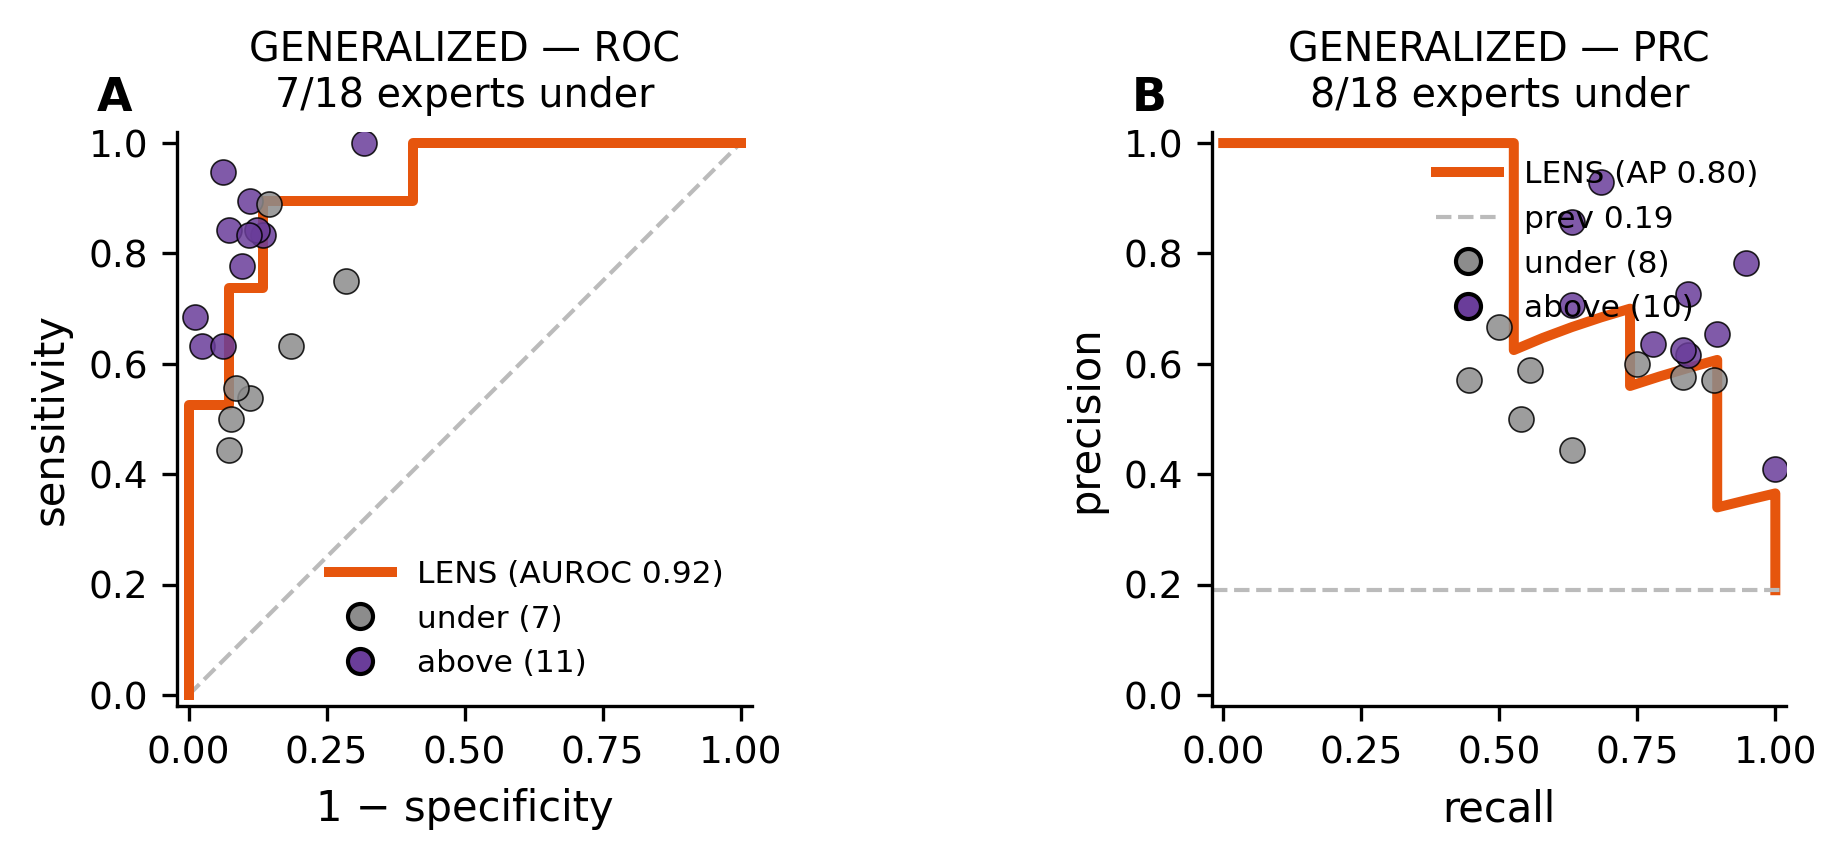
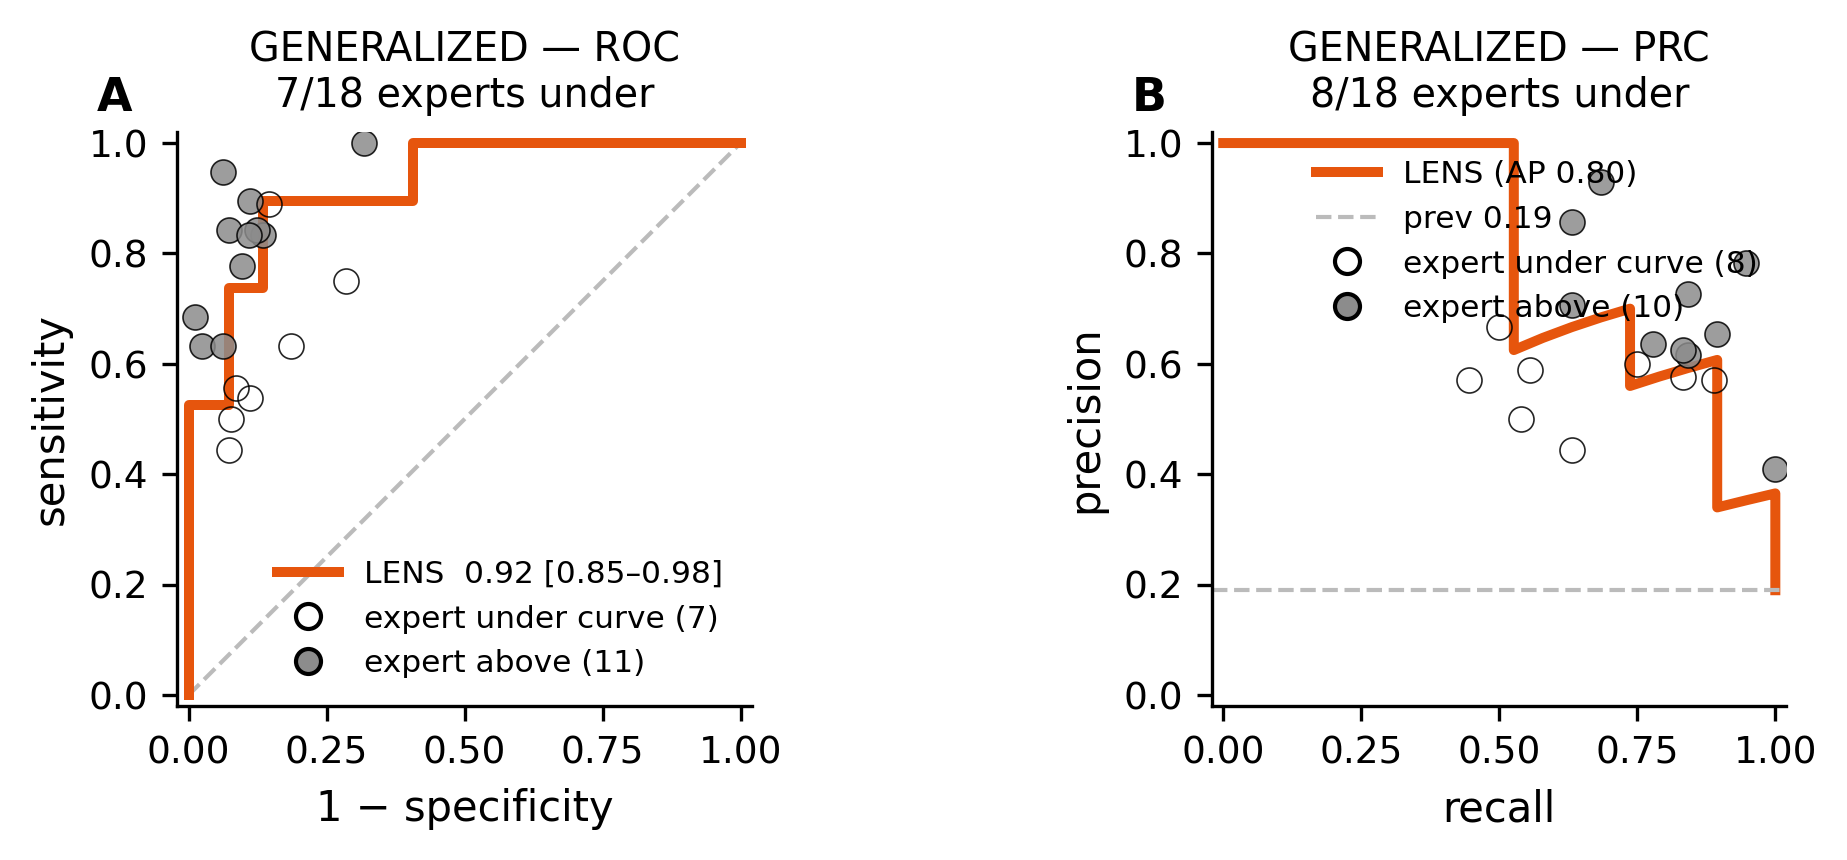
Every figure now prints at 300 DPI — the file said 300, the page said 209
The DPI trap, and the exact twin of the type-size one a few commits ago. A figure saved at
300 dpi carries "300 dpi" in its metadata, and every checker reads that back and passes
it. But the journal scales the figure to fill the column, and scaling UP spreads the same
pixels over more paper. At the page scales this set uses (1.13-1.44) every one of the 16
figures was landing between 209 and 266 DPI on the page while claiming 300 — below
Clinical Neurophysiology's floor, on every figure, undetected through four review rounds.

Worse, my own page-fit guard was pushing them there: it optimised type size upward, which
means MORE upscaling, which means LOWER printed DPI. The two constraints pull opposite
ways and only one of them was being measured.

assemble_manuscript_figures.py now renders once to learn the natural size, computes the
page scale, and re-renders at 300 x that scale. All 16 print at exactly 300 DPI, reported
per figure in MANIFEST.md alongside printed size and type scale, and failed loudly below
it. The .pdf is vector, so it was never affected.

Also: purple meant "expert above the curve" in Figure S7 and "Morgoth" in the adjacent
Figures 2/3/S3 — a collision I introduced in the previous pass. Filled vs hollow markers
instead, and S7 gains the bootstrap 95% CI the rest of the ROC family already carried.

diff --git a/scripts/assemble_manuscript_figures.py b/scripts/assemble_manuscript_figures.py
@@ -8,6 +8,7 @@ reported, not fatal. Part of the `results` reproduce tier (regenerate the panel 
 Run: MPLBACKEND=Agg python3 scripts/assemble_manuscript_figures.py
 """
 from __future__ import annotations
+import math
 import re
 from pathlib import Path
 import matplotlib; matplotlib.use("Agg")
@@ -47,6 +48,7 @@ SHRINK_WARN = 0.70   # a source authored wider than page-width/SHRINK_WARN has i
 # review comment C103 ("Figure 1 illegible") was actually about. page_fit() checks the height limit too.
 PAGE_MM = (190.0, 240.0)
 MIN_PT = 6.0         # nothing may print smaller than this
+MIN_DPI = 300.0      # ...and nothing may print coarser than this, ON THE PAGE
 
 
 def native_inches(path: str) -> float | None:
@@ -105,6 +107,15 @@ def page_fit(out_path: Path) -> tuple[float, float, float]:
     return w_mm * s, h_mm * s, s
 
 
+def print_dpi(out_path: Path) -> float:
+    """Pixels per inch the figure actually has once it is scaled onto the page."""
+    from PIL import Image
+    with Image.open(out_path) as im:
+        dpi = (im.info.get("dpi") or (300,))[0] or 300
+        w_in = im.size[0] / dpi
+    return im.size[0] / (page_fit(out_path)[0] / 25.4) if w_in else float("nan")
+
+
 def smallest_pt(panels: list[str]) -> float | None:
     """The smallest font size any producing script sets for these panels, read from the source.
 
@@ -138,8 +149,20 @@ def compose(out_path: Path, panels: list[str], ncols: int) -> bool:
         if n > 1:
             ax.text(0.0, 1.01, chr(65 + i), transform=ax.transAxes, fontsize=17, fontweight="bold",
                     va="bottom", ha="left")
+    # Save at whatever pixel density leaves the PRINTED figure at >= MIN_DPI.
+    #
+    # This is the DPI trap, and it is the exact twin of the type-size one. A figure saved at 300 dpi carries
+    # "300 dpi" in its metadata and every checker reads it back and passes it -- but the journal scales the
+    # figure to fill the column, and scaling UP spreads the same pixels over more paper. At the page scales
+    # this set uses (1.13-1.44) every figure was landing between 209 and 266 dpi on the page while claiming
+    # 300. Measured, not assumed: see the effective-DPI column in MANIFEST.md.
+    #
+    # So: render once to learn the natural size, compute the page scale, then re-render at 300 x that scale.
     fig.savefig(out_path, dpi=300, bbox_inches="tight", facecolor="white")
-    fig.savefig(out_path.with_suffix(".pdf"), dpi=300, bbox_inches="tight", facecolor="white")  # publication PDF
+    scale = page_fit(out_path)[2]
+    if scale > 1.0:
+        fig.savefig(out_path, dpi=int(math.ceil(MIN_DPI * scale)), bbox_inches="tight", facecolor="white")
+    fig.savefig(out_path.with_suffix(".pdf"), bbox_inches="tight", facecolor="white")   # vector; dpi n/a
     plt.close(fig)
     return True
 
@@ -156,11 +179,12 @@ def main():
              f"{PAGE_MM[0]:.0f} x {PAGE_MM[1]:.0f} mm box; type scale is what every point size in it is "
              "multiplied by on the page. A figure that is too tall prints narrower than the column and "
              "shrinks its own labels, so both are reported here.", "",
-             "| submission figure | panels | producing script(s) | printed mm | type scale |",
-             "|---|---|---|---|---|"]
+             "| submission figure | panels | producing script(s) | printed mm | type scale | printed DPI |",
+             "|---|---|---|---|---|---|"]
     have = miss = 0
     warnings: dict[str, list[str]] = {}
     toosmall: dict[str, tuple] = {}
+    lowdpi: dict[str, float] = {}
     fit: list[tuple] = []
     for name, (panels, ncols, scripts) in FIGS.items():
         w = legibility(panels, ncols)
@@ -169,16 +193,19 @@ def main():
         if compose(OUT / name, panels, ncols):
             have += 1
             pw, ph, sc = page_fit(OUT / name)
+            edpi = print_dpi(OUT / name)
             spt = smallest_pt(panels)
-            fit.append((name, pw, ph, sc, spt))
+            fit.append((name, pw, ph, sc, spt, edpi))
             if spt is not None and spt * sc < MIN_PT:
                 toosmall[name] = (spt, sc, spt * sc, pw, ph)
+            if edpi < MIN_DPI - 1:
+                lowdpi[name] = edpi
             lines.append(f"| `{name}` | {len(panels)} ({', '.join(Path(p).name for p in panels)}) | "
-                         f"`scripts/{scripts}` | {pw:.0f} x {ph:.0f} | {sc:.2f} |")
+                         f"`scripts/{scripts}` | {pw:.0f} x {ph:.0f} | {sc:.2f} | {edpi:.0f} |")
         else:
             miss += 1
             missing = [p for p in panels if not Path(p).exists()]
-            lines.append(f"| `{name}` | *(missing: {', '.join(missing)})* | `scripts/{scripts}` | — | — |")
+            lines.append(f"| `{name}` | *(missing: {', '.join(missing)})* | `scripts/{scripts}` | — | — | — |")
     (OUT / "MANIFEST.md").write_text("\n".join(lines) + "\n")
     print(f"composited {have} submission figures into {OUT}/ ({miss} with a missing source) + MANIFEST.md")
     if miss:
@@ -187,9 +214,16 @@ def main():
             if missing:
                 print(f"    {name} <- missing {missing}")
     worst = min((f[3] for f in fit), default=1.0)
-    print(f"    page fit: worst type scale {worst:.2f}"
+    worst_dpi = min((f[5] for f in fit), default=300.0)
+    print(f"    page fit: worst type scale {worst:.2f}; worst printed DPI {worst_dpi:.0f}"
           + (f"; {len(toosmall)} figure(s) print type below {MIN_PT:.0f} pt" if toosmall
              else f"; every figure prints its smallest type at >= {MIN_PT:.0f} pt"))
+    if lowdpi:
+        print(f"\n!! {len(lowdpi)} figure(s) print below {MIN_DPI:.0f} DPI ON THE PAGE. The dpi stamped in the\n"
+              f"   file is not the dpi on paper: a figure scaled UP to fill the column spreads the same\n"
+              f"   pixels over more paper. Raise the save dpi in compose():")
+        for name, e in lowdpi.items():
+            print(f"    {name} <- {e:.0f} DPI printed")
     if toosmall:
         print(f"\n!! {len(toosmall)} figure(s) would print text below the {MIN_PT:.0f} pt floor. A figure "
               f"taller than ~{PAGE_MM[0]/PAGE_MM[1]:.2f}x its width is scaled DOWN to fit the page height, "

diff --git a/scripts/49_occasion_allstage_localized.py b/scripts/49_occasion_allstage_localized.py
@@ -134,11 +134,22 @@ def evaluate(T, V, name, ax, cols, color):
     pu_roc, fr = m46.under_roc(fpr, tpr, pts); pu_pr, fp = m46.under_pr(prec, rec, pts)
     import matplotlib; matplotlib.use("Agg"); import matplotlib.pyplot as plt
     fig, (a0, a1) = plt.subplots(1, 2, figsize=(7.1, 2.97))
-    a0.plot([0, 1], [0, 1], "--", color="#bbb", lw=1); a0.plot(fpr, tpr, color=color, lw=2.4, label=f"LENS (AUROC {auc:.2f})")
+    # Recording-level bootstrap 95% CI -- the same convention and the same resampling unit as Figures 2,
+    # 3 and S3, so every performance number in the ROC family carries an interval of the same kind.
+    _rng = np.random.default_rng(0); _yv = y.values; _b = []
+    for _ in range(2000):
+        _i = _rng.integers(0, len(_yv), len(_yv))
+        if np.unique(_yv[_i]).size >= 2:
+            _b.append(roc_auc_score(_yv[_i], p[_i]))
+    lo, hi = (float(np.percentile(_b, 2.5)), float(np.percentile(_b, 97.5))) if _b else (np.nan, np.nan)
+    a0.plot([0, 1], [0, 1], "--", color="#bbb", lw=1)
+    a0.plot(fpr, tpr, color=color, lw=2.4, label=f"LENS  {auc:.2f} [{lo:.2f}\u2013{hi:.2f}]")
     for r, pp in pts.items():
-        a0.plot(pp["fpr"], pp["tpr"], "o", ms=6, mfc=(palette.NEUTRAL if fr.get(r) else palette.MORGOTH), mec="k", mew=.4, alpha=.85)
-    a0.plot([], [], "o", mfc=palette.NEUTRAL, mec="k", label=f"under ({sum(fr.values())})")
-    a0.plot([], [], "o", mfc=palette.MORGOTH, mec="k", label=f"above ({len(pts)-sum(fr.values())})")
+        a0.plot(pp["fpr"], pp["tpr"], "o", ms=6, mfc=("none" if fr.get(r) else palette.NEUTRAL), mec="k", mew=.4, alpha=.85)
+    # Filled vs hollow, not two hues: purple is Morgoth's colour in Figures 2, 3 and S3, and this
+    # panel sits next to S3.
+    a0.plot([], [], "o", mfc="none", mec="k", label=f"expert under curve ({sum(fr.values())})")
+    a0.plot([], [], "o", mfc=palette.NEUTRAL, mec="k", label=f"expert above ({len(pts)-sum(fr.values())})")
     a0.set_aspect("equal", adjustable="box")   # match Figures 2/3/S3: chance at 45 deg
     a0.set_xlabel("1 − specificity"); a0.set_ylabel("sensitivity")
     a0.set_title(f"{name.upper()} — ROC\n{sum(fr.values())}/{len(pts)} experts under", fontsize=9.5)
@@ -146,9 +157,9 @@ def evaluate(T, V, name, ax, cols, color):
     a1.plot(rec, prec, color=color, lw=2.4, label=f"LENS (AP {ap:.2f})"); a1.axhline(y.mean(), ls="--", color="#bbb", lw=1, label=f"prev {y.mean():.2f}")
     for r, pp in pts.items():
         if np.isfinite(pp["precision"]):
-            a1.plot(pp["recall"], pp["precision"], "o", ms=6, mfc=(palette.NEUTRAL if fp.get(r) else palette.MORGOTH), mec="k", mew=.4, alpha=.85)
-    a1.plot([], [], "o", mfc=palette.NEUTRAL, mec="k", label=f"under ({sum(fp.values())})")
-    a1.plot([], [], "o", mfc=palette.MORGOTH, mec="k", label=f"above ({len(fp)-sum(fp.values())})")
+            a1.plot(pp["recall"], pp["precision"], "o", ms=6, mfc=("none" if fp.get(r) else palette.NEUTRAL), mec="k", mew=.4, alpha=.85)
+    a1.plot([], [], "o", mfc="none", mec="k", label=f"expert under curve ({sum(fp.values())})")
+    a1.plot([], [], "o", mfc=palette.NEUTRAL, mec="k", label=f"expert above ({len(fp)-sum(fp.values())})")
     a1.set_aspect("equal", adjustable="box")
     a1.set_xlabel("recall"); a1.set_ylabel("precision")
     a1.set_title(f"{name.upper()} — PRC\n{sum(fp.values())}/{len(fp)} experts under", fontsize=9.5)

diff --git a/figures/manuscript/MANIFEST.md b/figures/manuscript/MANIFEST.md
@@ -4,21 +4,21 @@ Built by `scripts/assemble_manuscript_figures.py`: multi-panel figures are compo
 
 Printed size is what the figure measures once it is scaled to fit Clinical Neurophysiology's 190 x 240 mm box; type scale is what every point size in it is multiplied by on the page. A figure that is too tall prints narrower than the column and shrinks its own labels, so both are reported here.
 
-| submission figure | panels | producing script(s) | printed mm | type scale |
-|---|---|---|---|---|
-| `Figure1_normative_model.png` | 2 (keystone_growth_grid.png, topo_rel_delta_by_age_stage.png) | `scripts/76, 77` | 152 x 240 | 1.13 |
-| `Figure2_detection.png` | 2 (s0d_single_occasion_generalized.png, s0e_occasion_focal.png) | `scripts/54, 55, 66` | 190 x 192 | 1.41 |
-| `Figure3_sandor_external.png` | 1 (sandor100_slowing.png) | `scripts/sandor100_external_validation` | 190 x 88 | 1.34 |
-| `Figure4_example_focal.png` | 1 (s4_examples_eeg_focal.png) | `scripts/62, 63` | 167 x 240 | 1.18 |
-| `Figure5_example_generalized.png` | 1 (s4_examples_eeg_generalized.png) | `scripts/62, 63` | 167 x 240 | 1.18 |
-| `Figure6_description_contrast.png` | 2 (s4_d2.png, s4_d5.png) | `scripts/57` | 190 x 157 | 1.41 |
-| `Figure7_sleep_underreporting.png` | 1 (v4a_wake_sleep.png) | `scripts/fig6_sleep_naming (95b stat)` | 190 x 98 | 1.34 |
-| `FigureS1_architecture.png` | 1 (architecture.png) | `scripts/architecture_diagram` | 190 x 186 | 1.34 |
-| `FigureS6_deviation_field.png` | 1 (s2_segment_deviation.png) | `scripts/44` | 190 x 65 | 1.34 |
-| `FigureS5_curvebank.png` | 3 (rel_delta__whole_head.png, TAR__whole_head.png, DAR__whole_head.png) | `scripts/111` | 190 x 232 | 1.44 |
-| `FigureS8_description_panels.png` | 4 (s4_d1.png, s4_d3.png, s4_d4.png, s4_d6.png) | `scripts/57, 58` | 159 x 240 | 1.21 |
-| `FigureS7_localized_focal.png` | 1 (s0_occasion_ours_v4_focal.png) | `scripts/49` | 190 x 92 | 1.34 |
-| `FigureS9_severity_null.png` | 1 (severity_recalibrated.png) | `scripts/109` | 190 x 91 | 1.34 |
-| `FigureS3_vanputten.png` | 1 (vanputten_panel_s7.png) | `scripts/vanputten_panel_s7` | 190 x 102 | 1.34 |
-| `FigureS4_topoplot_TAR.png` | 1 (topo_TAR_by_age_stage.png) | `scripts/77` | 190 x 116 | 1.34 |
-| `FigureS2_centile_calibration.png` | 1 (s9_centile_calibration.png) | `scripts/78` | 190 x 217 | 1.34 |
+| submission figure | panels | producing script(s) | printed mm | type scale | printed DPI |
+|---|---|---|---|---|---|
+| `Figure1_normative_model.png` | 2 (keystone_growth_grid.png, topo_rel_delta_by_age_stage.png) | `scripts/76, 77` | 152 x 240 | 1.13 | 300 |
+| `Figure2_detection.png` | 2 (s0d_single_occasion_generalized.png, s0e_occasion_focal.png) | `scripts/54, 55, 66` | 190 x 192 | 1.41 | 300 |
+| `Figure3_sandor_external.png` | 1 (sandor100_slowing.png) | `scripts/sandor100_external_validation` | 190 x 88 | 1.34 | 300 |
+| `Figure4_example_focal.png` | 1 (s4_examples_eeg_focal.png) | `scripts/62, 63` | 167 x 240 | 1.18 | 300 |
+| `Figure5_example_generalized.png` | 1 (s4_examples_eeg_generalized.png) | `scripts/62, 63` | 167 x 240 | 1.18 | 300 |
+| `Figure6_description_contrast.png` | 2 (s4_d2.png, s4_d5.png) | `scripts/57` | 190 x 157 | 1.41 | 300 |
+| `Figure7_sleep_underreporting.png` | 1 (v4a_wake_sleep.png) | `scripts/fig6_sleep_naming (95b stat)` | 190 x 98 | 1.34 | 300 |
+| `FigureS1_architecture.png` | 1 (architecture.png) | `scripts/architecture_diagram` | 190 x 186 | 1.34 | 300 |
+| `FigureS6_deviation_field.png` | 1 (s2_segment_deviation.png) | `scripts/44` | 190 x 65 | 1.34 | 300 |
+| `FigureS5_curvebank.png` | 3 (rel_delta__whole_head.png, TAR__whole_head.png, DAR__whole_head.png) | `scripts/111` | 190 x 232 | 1.44 | 301 |
+| `FigureS8_description_panels.png` | 4 (s4_d1.png, s4_d3.png, s4_d4.png, s4_d6.png) | `scripts/57, 58` | 159 x 240 | 1.21 | 300 |
+| `FigureS7_localized_focal.png` | 1 (s0_occasion_ours_v4_focal.png) | `scripts/49` | 190 x 92 | 1.34 | 300 |
+| `FigureS9_severity_null.png` | 1 (severity_recalibrated.png) | `scripts/109` | 190 x 91 | 1.34 | 300 |
+| `FigureS3_vanputten.png` | 1 (vanputten_panel_s7.png) | `scripts/vanputten_panel_s7` | 190 x 102 | 1.34 | 300 |
+| `FigureS4_topoplot_TAR.png` | 1 (topo_TAR_by_age_stage.png) | `scripts/77` | 190 x 116 | 1.34 | 300 |
+| `FigureS2_centile_calibration.png` | 1 (s9_centile_calibration.png) | `scripts/78` | 190 x 217 | 1.34 | 300 |

diff --git a/docs/review/comment_tracker.md b/docs/review/comment_tracker.md
@@ -170,6 +170,8 @@ repo, and should be pushed upstream.
 | R2-47 | figure checker | Panel letters missing on Figures 4, 5 and S6 | done | one letter per example in Figures 4/5, one per feature panel in S6 |
 | R2-48 | own | **`verify_fresh_install.sh` emptied 198 local panel partitions.** It moved the real tables to a temp directory and relied on a trap; anything running concurrently against `data/derived` — including a producer I ran myself — saw a partial tree, and the restore lost them | done | The hidden copies now stay inside `data/derived/.fresh_install_stash`, so a crash leaves them one rename from correct; `recover_stash()` restores them automatically on the next run; and an atomic `mkdir` lock plus a loud banner stop anything else running against the checkout mid-verification. Data was re-synced from S3 (it is the published cache, so nothing was permanently lost) |
 | R2-28 | reproducibility | **Figure 3 did not reproduce from git + S3** — it read the SAI-100 expert workbook from a Box mount, so it rebuilt on exactly one machine | done | `scripts/export_sai100_panel.py` exports a de-identified panel (study pseudonyms, integer rater ids, ages > 89 binned to 90, every other workbook column dropped, checks asserted rather than assumed) and it is published to the credentialed prefix. Verified: with `SANDOR_DIR` pointed at a nonexistent path, Figure 3 rebuilds with **identical numbers**. The SCORE-AI workbooks and the EEG signal are not redistributed |
+| R2-49 | figure checker | **Every one of the 16 figures printed below 300 DPI** (209–266), while the file metadata said 300 and every checker read that back and passed it. A figure scaled UP to fill the column spreads the same pixels over more paper — the same trap as the type-size one, one layer down | done | `assemble_manuscript_figures.py` renders once to learn the natural size, computes the page scale, then re-renders at 300 × that scale. All 16 now print at exactly 300 DPI, reported per figure in `figures/manuscript/MANIFEST.md` and failed loudly below it |
+| R2-50 | figure checker | Purple meant "expert above the curve" in Figure S7 and "Morgoth" in the adjacent Figures 2/3/S3 — a collision I introduced in the previous pass | done | filled vs hollow markers instead of a second hue; S7 also gains the bootstrap 95% CI the rest of the ROC family carries |
 | R2-45 | figure checker | Figure 1B/S4 and Figure S5 report per-stage n that differ tenfold for the same cohort (N2 817 vs 7,823) | done | Real and explainable: Figure 1B applies the source-appropriate rule (wake from routine, sleep from overnight, never pooled, because ratio features are not comparable across acquisition types) and Figure S5 does not. Stated in both captions. **Whether S5 should apply the same restriction is an author call** — it would change a committed supplementary figure |
 
 ## Still open after round 2

diff --git a/docs/manuscript_draft.md b/docs/manuscript_draft.md
@@ -333,7 +333,7 @@ item are listed once, in the provenance table at the end of this section, rather
 
 - **Figure S6 --- The per-segment deviation field is both calibrated and discriminative.** Per-segment whole-head deviation z by sleep stage, one panel per feature: the marker is the median and the bar the interquartile range. Clean-normal recordings (grey, the same grey used for that group in Figures 6 and S8) sit near zero in every stage --- which is what "calibrated" means here, since each segment is scored against its own stage's norm --- while recordings the report calls abnormal (orange) are shifted upward in every stage, most in wake and N1.
 
-- **Figure S7 --- Why the two detection axes need different read-outs.** The localized focal detector on the ON-100 panel --- **(A)** ROC, **(B)** precision--recall --- showing that a detector built on regional localization rather than on overall amount is what the focal axis requires; the generalized axis pools a diffuse whole-head amount instead (§3.4a). This is the same LENS pipeline as Figure 2, restricted to wake and N1 and cross-validated within the panel, so its numbers are not comparable with Figure 2's report-trained ones. Grey points are experts below the curve, red above.
+- **Figure S7 --- Why the two detection axes need different read-outs.** The localized focal detector on the ON-100 panel --- **(A)** ROC, **(B)** precision--recall --- showing that a detector built on regional localization rather than on overall amount is what the focal axis requires; the generalized axis pools a diffuse whole-head amount instead (§3.4a). This is the same LENS pipeline as Figure 2, restricted to wake and N1 and cross-validated within the panel, so its numbers are not comparable with Figure 2's report-trained ones. Experts below the curve are hollow circles, those above are filled; brackets are recording-level bootstrap 95% CIs, as in Figures 2, 3 and S3.
 
 - **Figure S8 --- The remaining description contrasts (D1, D3, D4, D6).** **(A)** Type and amount: the delta- versus theta-excess plane, and the deviation split by the band word the report uses. **(B)** Anterior-minus-posterior deviation z, split by the topography the report names. **(C)** Persistence: the distribution of the fraction of segments flagged abnormal (with the ACNS occasional→continuous bins marked) and of the longest continuous run, for report-slowing recordings against clean-normals. **(D)** The fraction of generated descriptor words that match the report, per component, against the one-in-three chance rate. As in Figure 6, points with bars are means with bootstrap 95% CIs.
 
